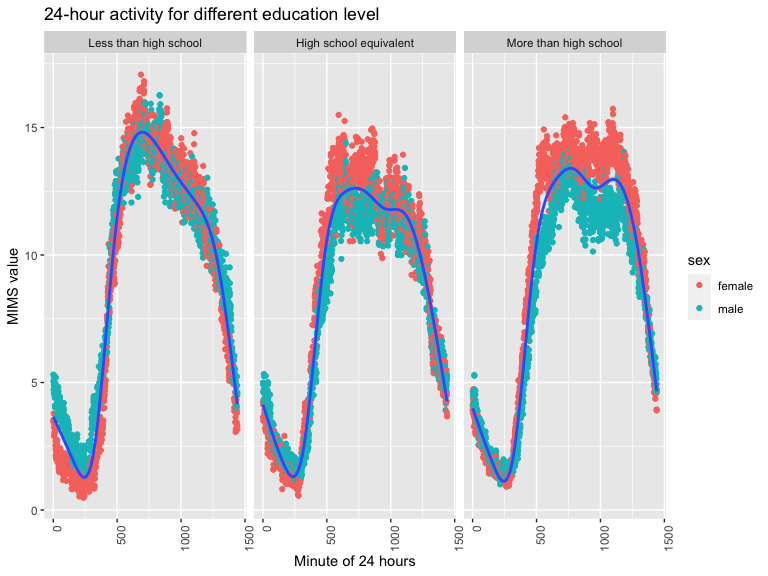
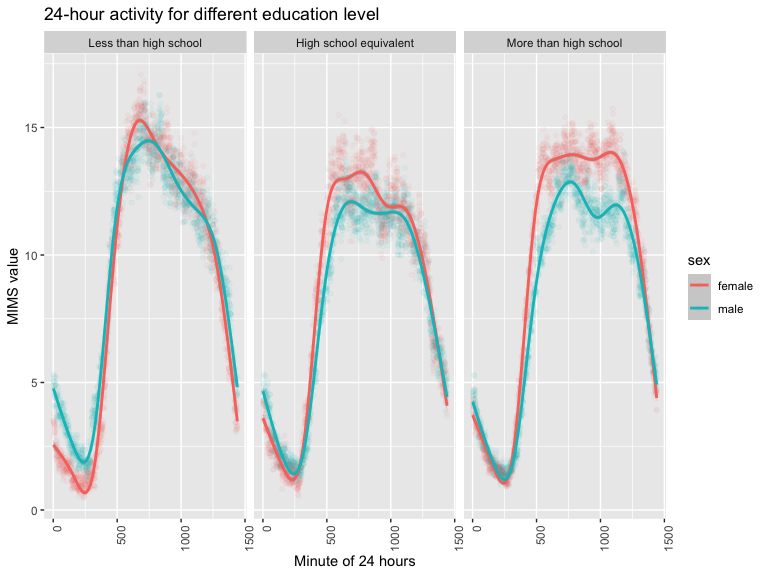
updated graphs

Changed region(s): [[0.0625, 0.125, 0.9375, 0.875]]

diff --git a/p8105_hw3_mf3593.md b/p8105_hw3_mf3593.md
@@ -286,7 +286,7 @@ combined_df|>
   mutate(time=as.numeric(gsub("min","",time)))|>
   group_by(education,time,sex)|>
   summarise(mims_day=mean(mims))|>
-  ggplot(aes(x=time,y=mims_day))+geom_point(aes(color=sex))+
+  ggplot(aes(x=time,y=mims_day,color=sex))+geom_point(alpha=0.05)+
   facet_grid(~education)+
   geom_smooth()+
   labs(
